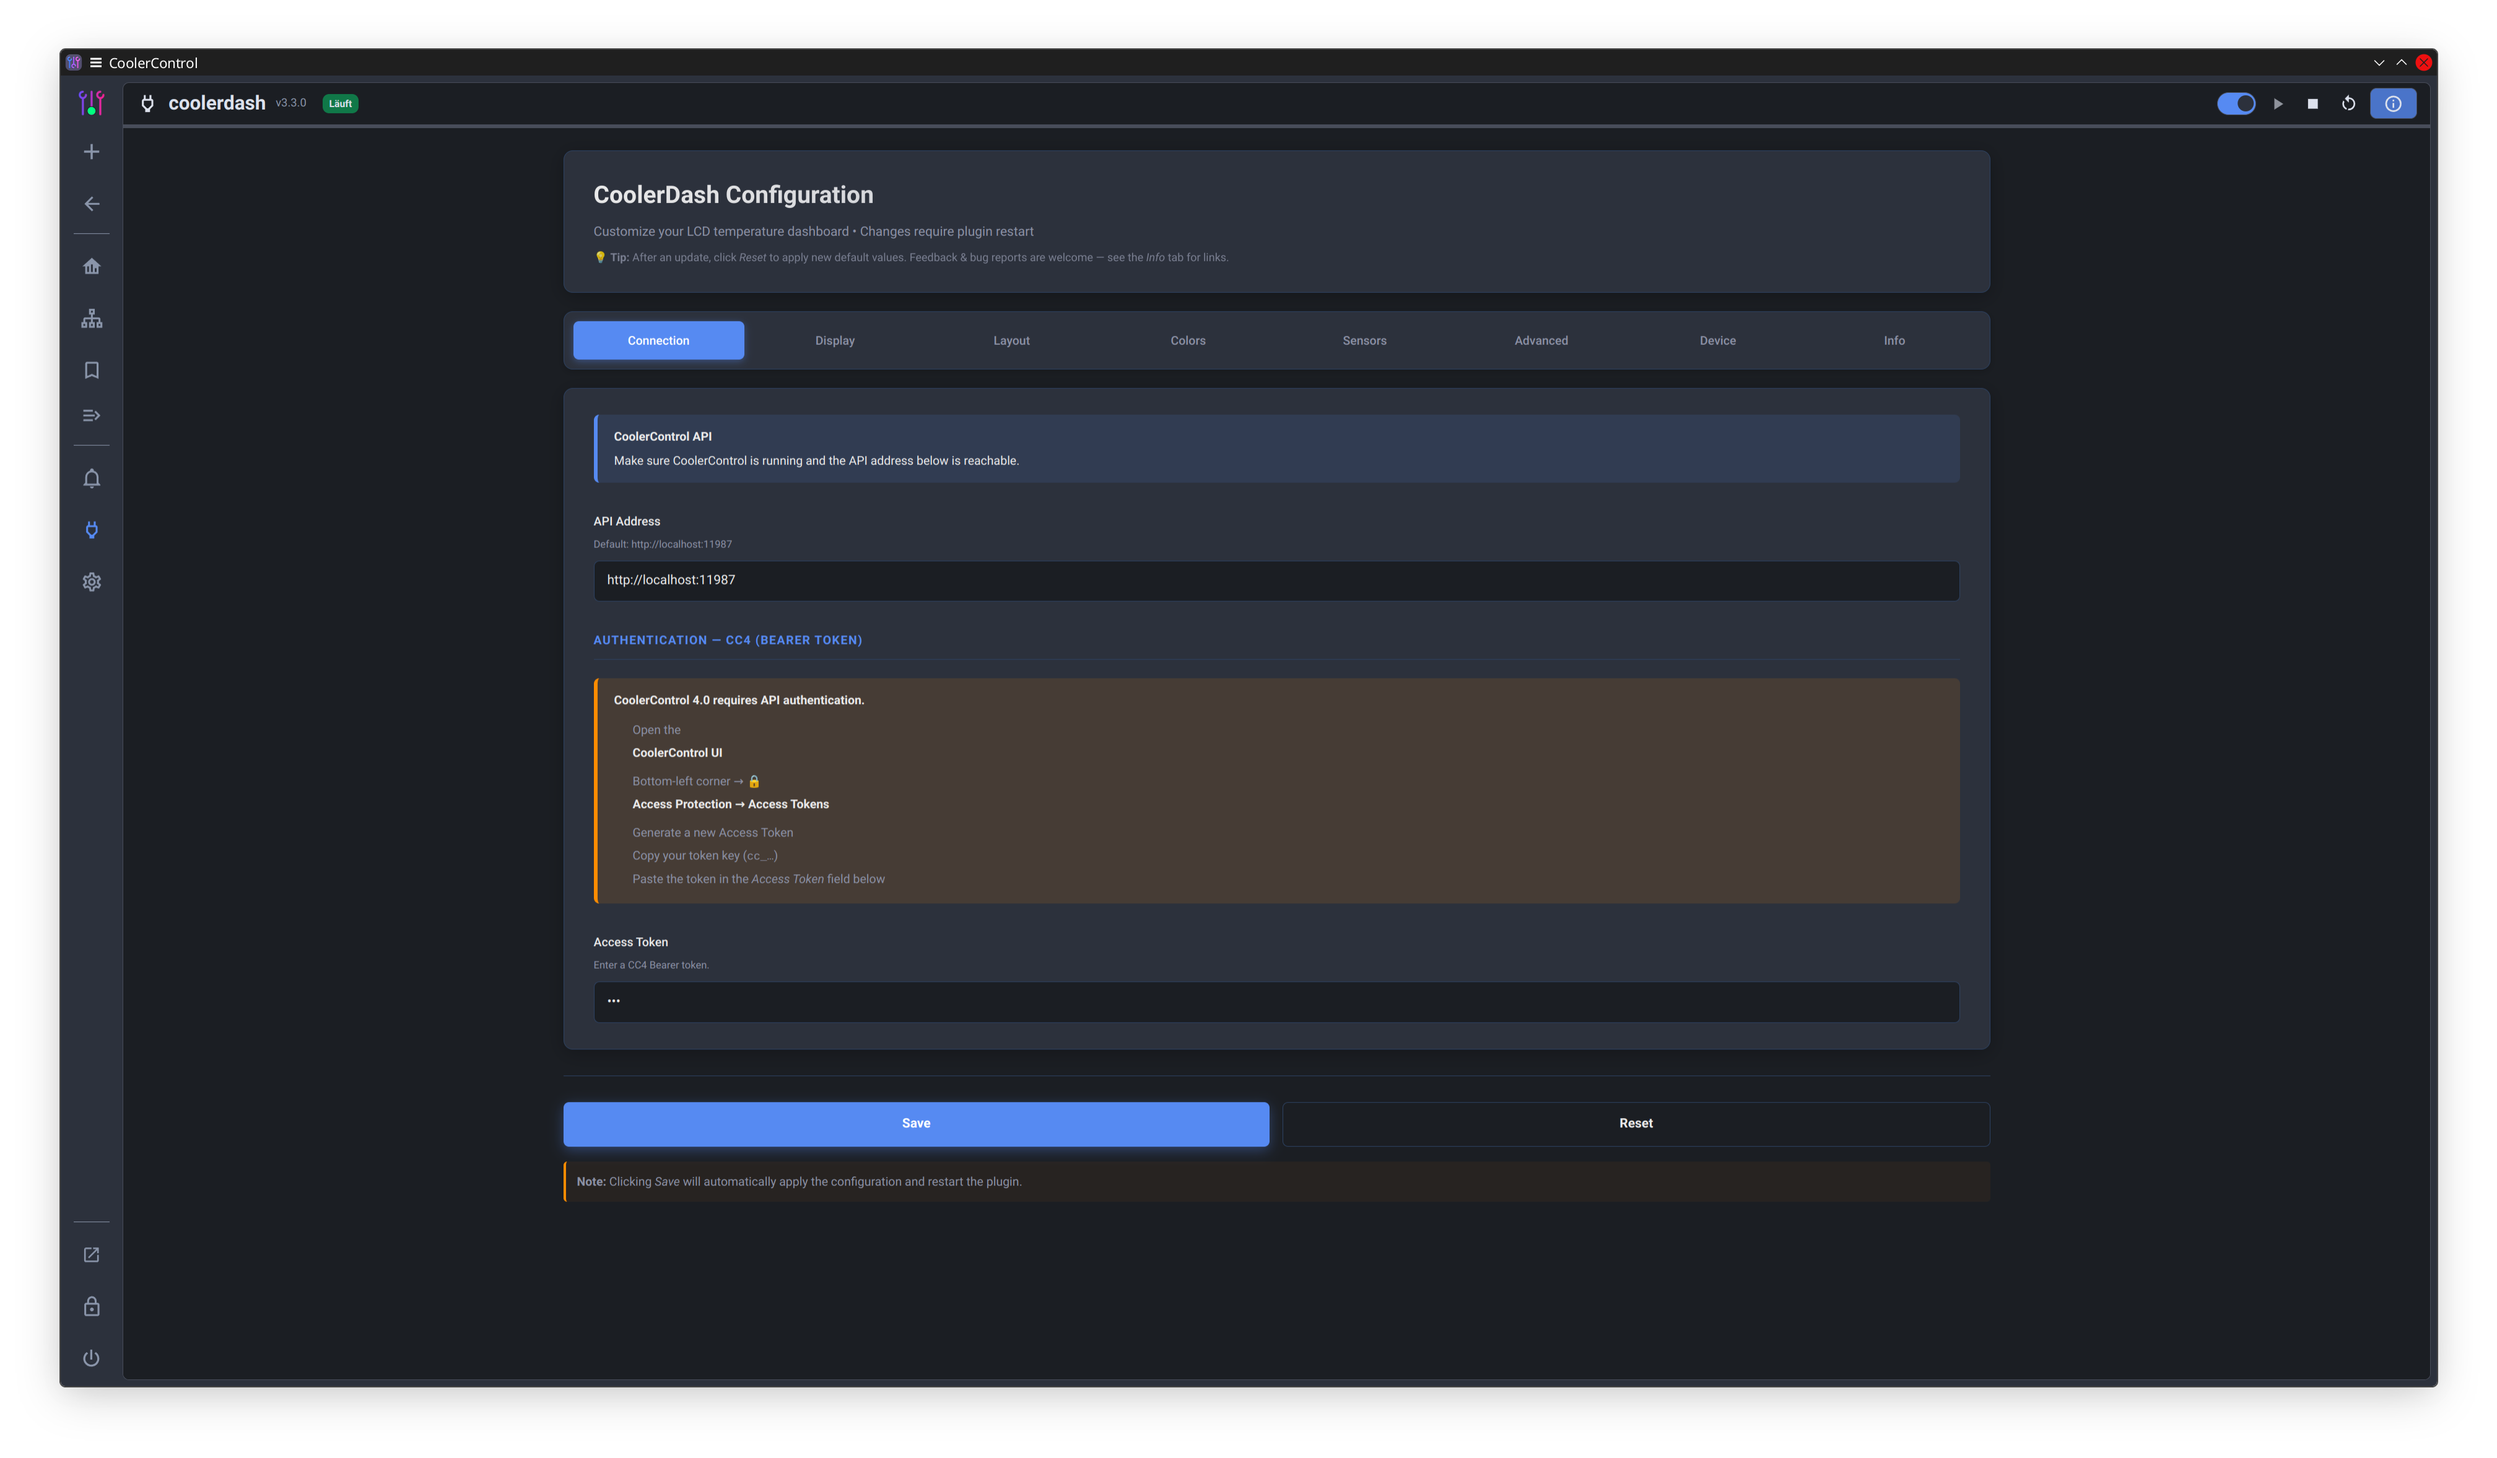
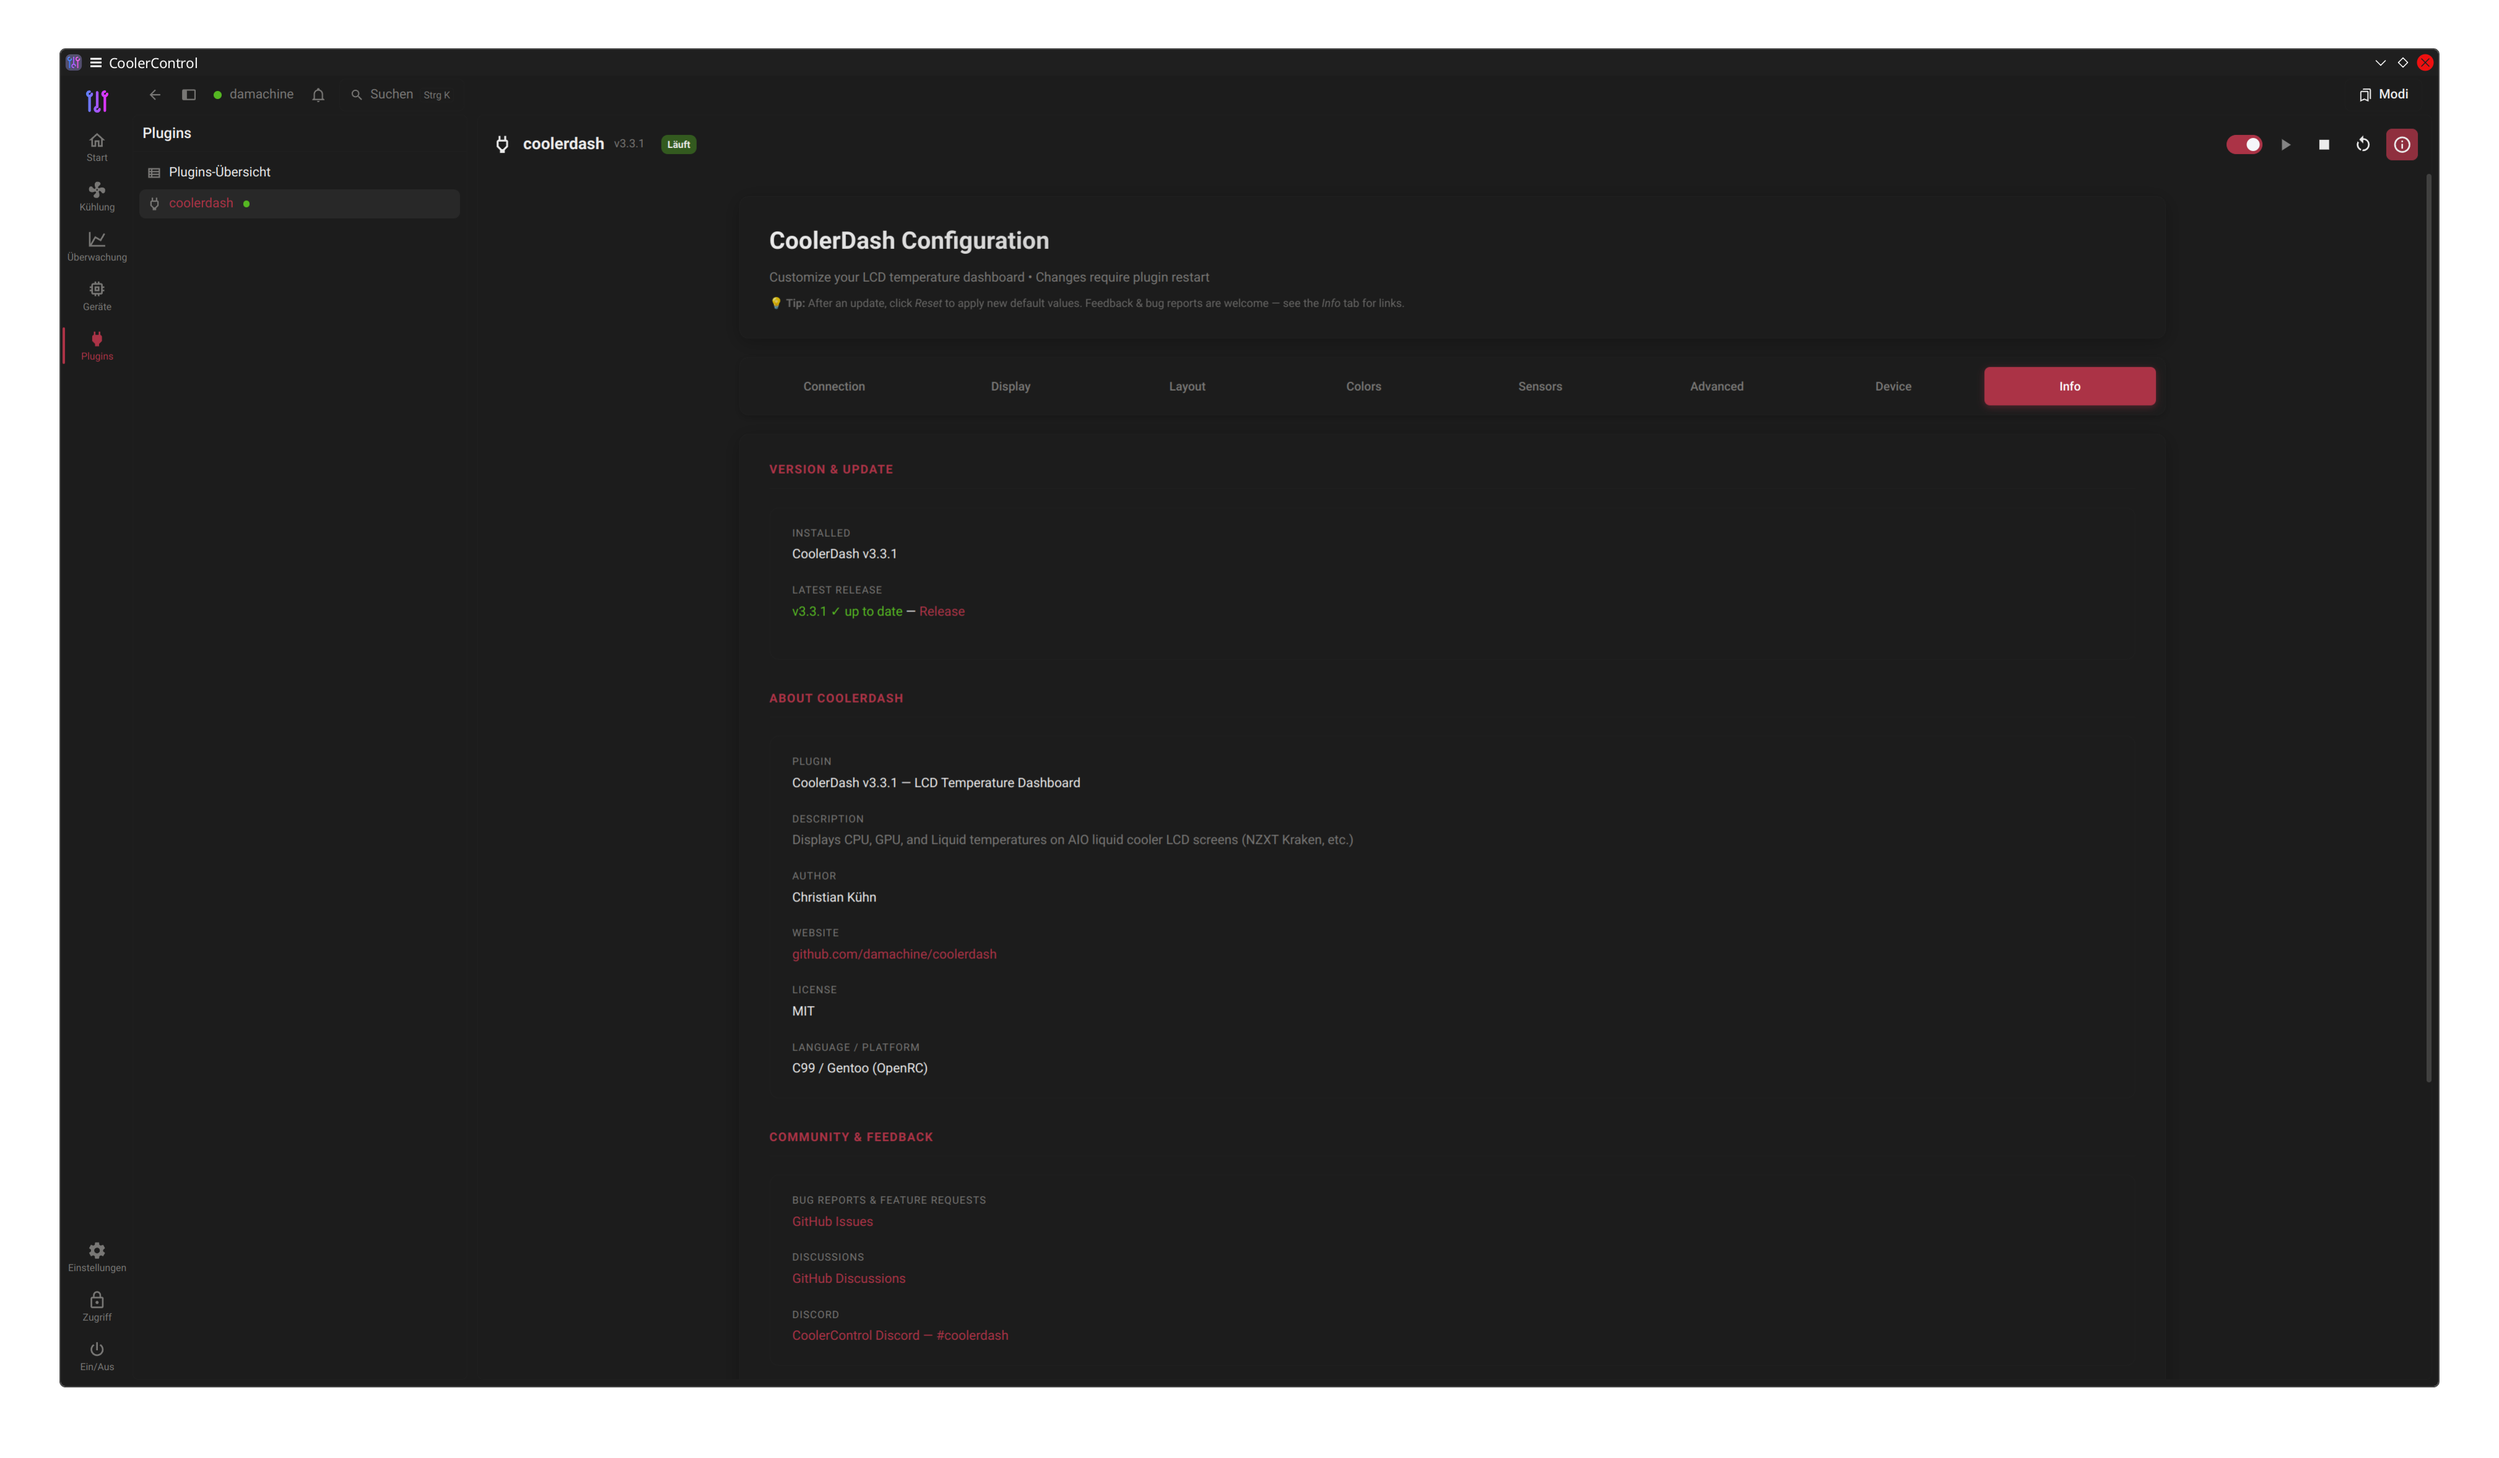
docs: refresh README.md and update configuration image

diff --git a/README.md b/README.md
@@ -14,9 +14,11 @@
 
 ## Features
 - **Plug-In that extends the LCD functionality of [CoolerControl](https://gitlab.com/coolercontrol/coolercontrol)**
-- **Support for additional sensor values (CPU/GPU/Liquid)**
+- **- Support for additional sensor values (CPU, GPU, liquid temperature, and more)**
+- **Multiple Display modes**
+- **Customizable display layouts**
+- **Animated GIF playback on the display**
 - **Integrated UI for customizing all settings**  
-- **Display modes**
 
 ### Split Mode
 
